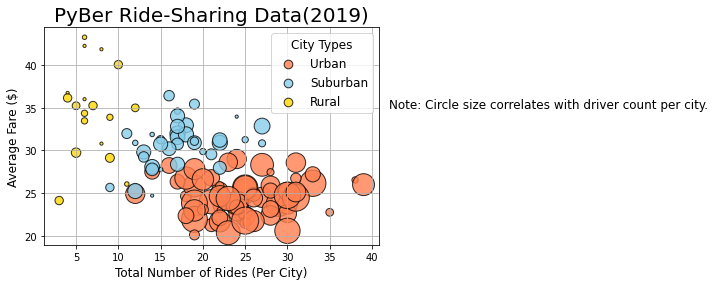
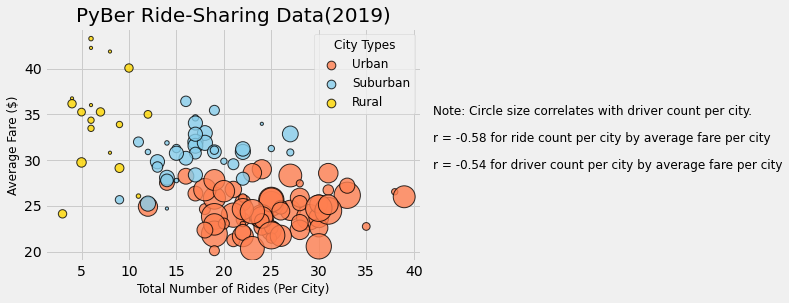
Adding statistics/readme edits

diff --git a/README.md b/README.md
@@ -2,4 +2,11 @@
 Using Python to analyze and visualize ridesharing data
 
 ## Overview
-Ridesharing is a popular form of transportation which has become prevalent across our society.  In general, it is a convenient form of transportation, and in some cases it can be a more cost efficient option compared to driving one's own vehicle.  PyBer is a ridesharing company that would like to know more about the accessability of their service in different types of cities.  Factors such as number of drivers, number of rides, and average fare price for each city type were analyzed to uncover trends.  
+Ridesharing is a popular form of transportation which has become prevalent across our society.  In general, it is a convenient form of transportation, and in some cases it can be a more cost efficient option compared to driving one's own vehicle.  PyBer is a ridesharing company that would like to know more about the accessability of their service in different types of cities.  Factors such as number of drivers, number of rides, and average fare price for each city type were analyzed to uncover trends.  These trends may be able to guide PyBer's future business decisions, thereby making their services more affordable and widely available.
+
+## Analysis
+Upon initial inspection of the ridesharing data, three distinct city types could be identified.  The three city types were 'urban', 'suburban', and 'rural'.  Average ride fares and a count of total rides were calculated for each city type.  This data was then plotted to a bubble plot with total number of rides on the x-axis and average fare on the y-axis.  The graph appears to display a negative relationship between average fare by city and total number of ride by city.  Generally, urban cities have a higher number of total rides and lower average fare prices.  Conversely, rural cities have a lower number of total rides and higher average fare prices.  Another element of this plot is the bubble size, which correlates to driver count per city.  Noticeably, urban cities have much higher driver counts than suburban or rural cities.  Citites with more drivers appear to have lower average fares compared to cities with less drivers.  
+![Fig1](https://github.com/Mots94/PyBer_Analysis/blob/main/analysis/Fig1.png)
+
+To determine the strength of the relationship between average fairs per city and ride count per city, a pairwise correlation was run on two series containing data for each city.  There was a relatively strong negative correlation between these two variables of r = -0.58.  Additionally, this analysis was completed on average fairs per city and driver count per city.  The correlation between these variables was also fairly strong at r = -0.54.  The code used to collect these values can be seen below.
+![RFC](https://github.com/Mots94/PyBer_Analysis/blob/main/analysis/rides_fare_corr.png) ![DFC](https://github.com/Mots94/PyBer_Analysis/blob/main/analysis/driver_fare_corr.png)
